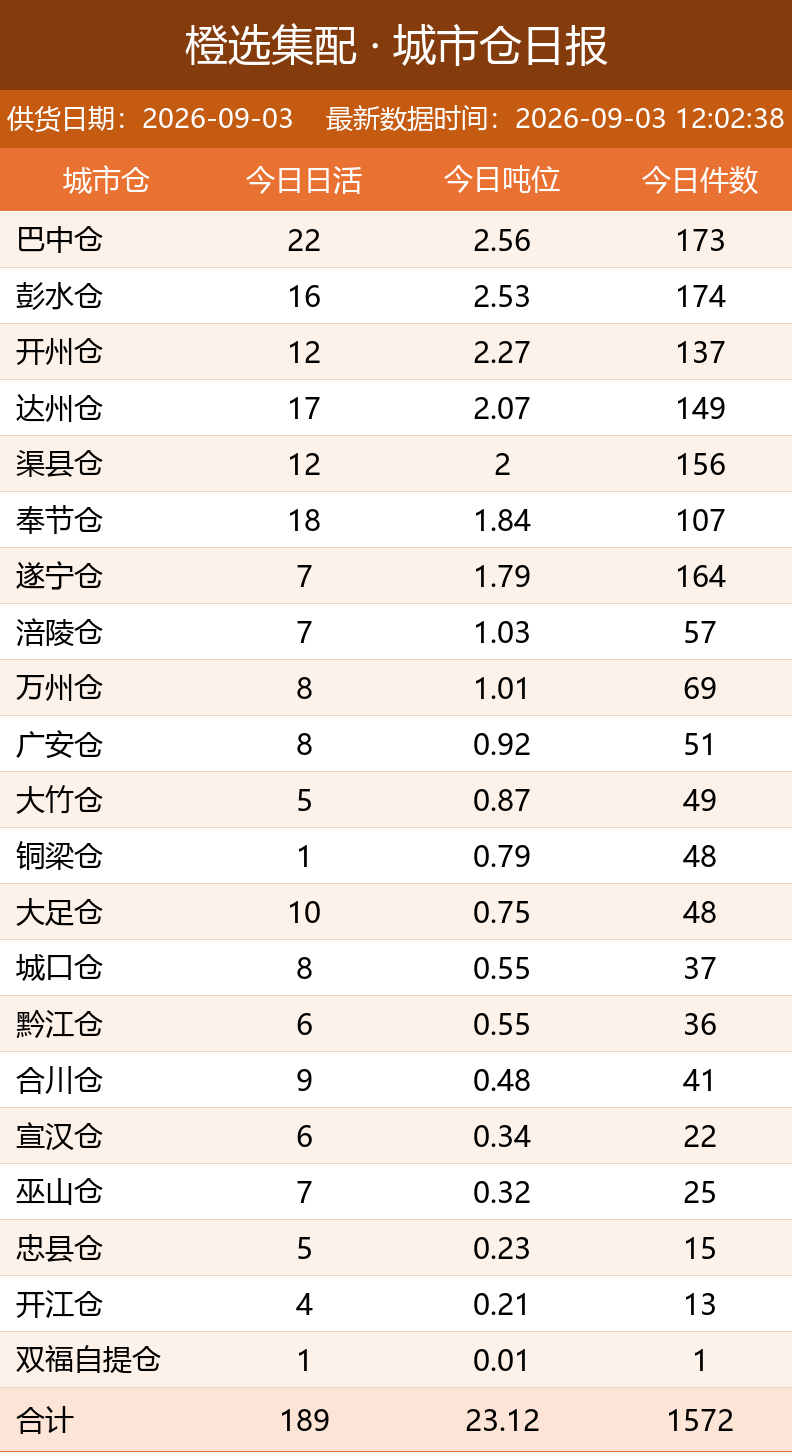
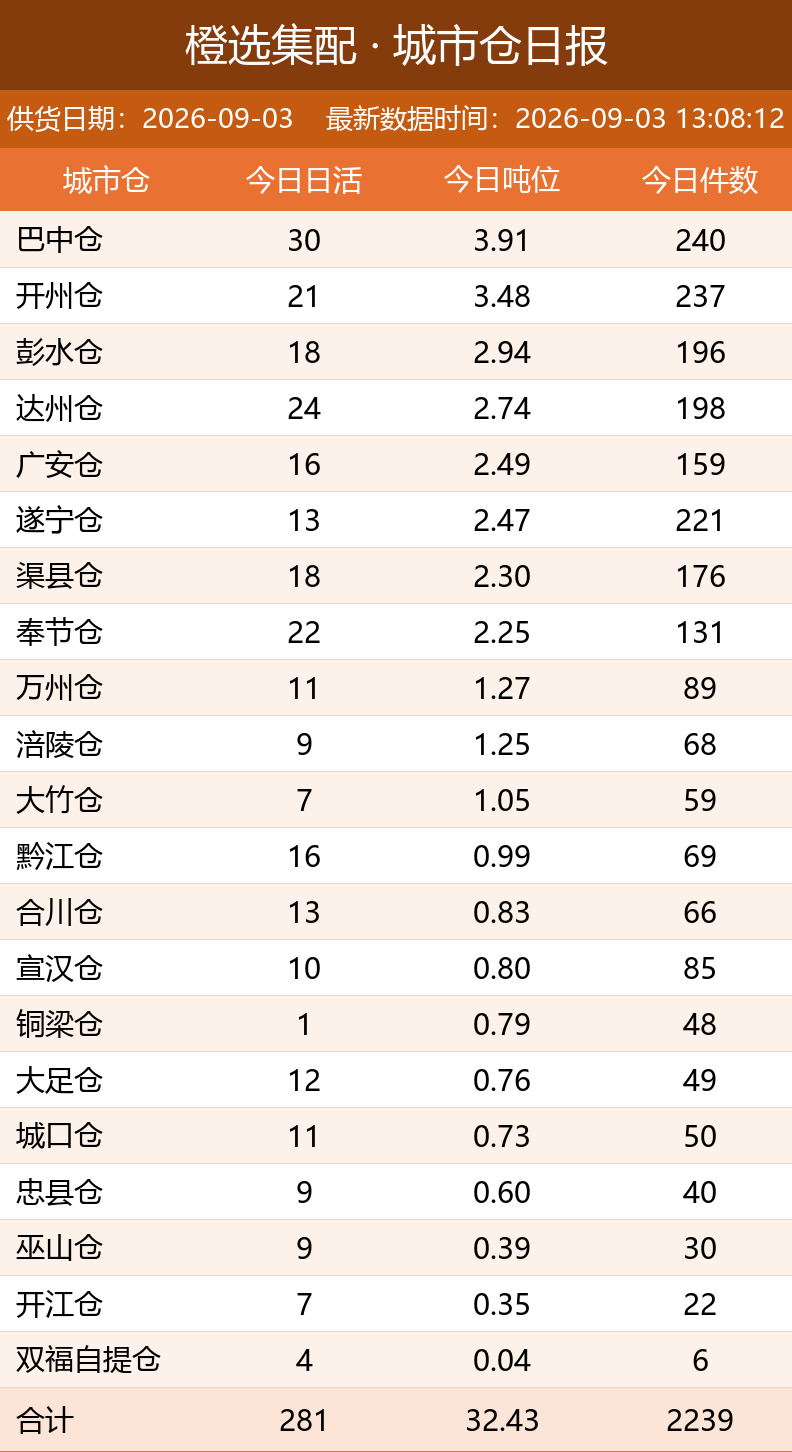
自动更新日报图片

diff --git a/index.html b/index.html
@@ -11,7 +11,7 @@ img { max-width: 100%; border: 1px solid #e5e5e5; margin-bottom: 24px; display: 
 </style>
 </head>
 <body>
-<h1>橙选集配日报图片（20260903_120244）</h1>
+<h1>橙选集配日报图片（20260903_130818）</h1>
 <img src="bd_latest.png" alt="BD 日报">
 <img src="wh_latest.png" alt="城市仓日报">
 <img src="zs_latest.png" alt="招商日报">
